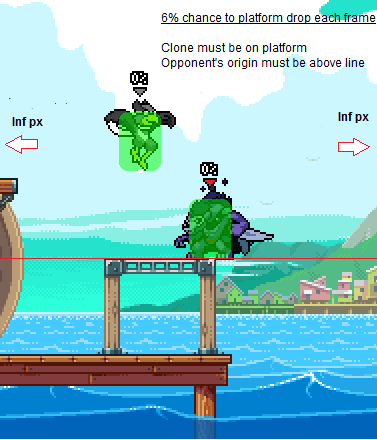
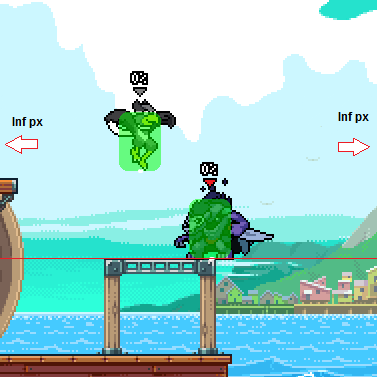
remove text & crop images, add outro p

diff --git a/content/lectures/drafts/understanding-clone-ai/index.md b/content/lectures/drafts/understanding-clone-ai/index.md
@@ -81,3 +81,5 @@ While clone is on a platform, and the opponent's origin is below its own, there 
 While clone is about to run offstage, there is a 70% chance each frame that it will jump.
 
 ![](evade-runoff-prevention.png)
+
+I hope this has demystified clone's behavior to you by shedding some light on the inner workings of how it makes decisions. This knowledge can help you to have more agency and understanding of how to play with or around your clone.
